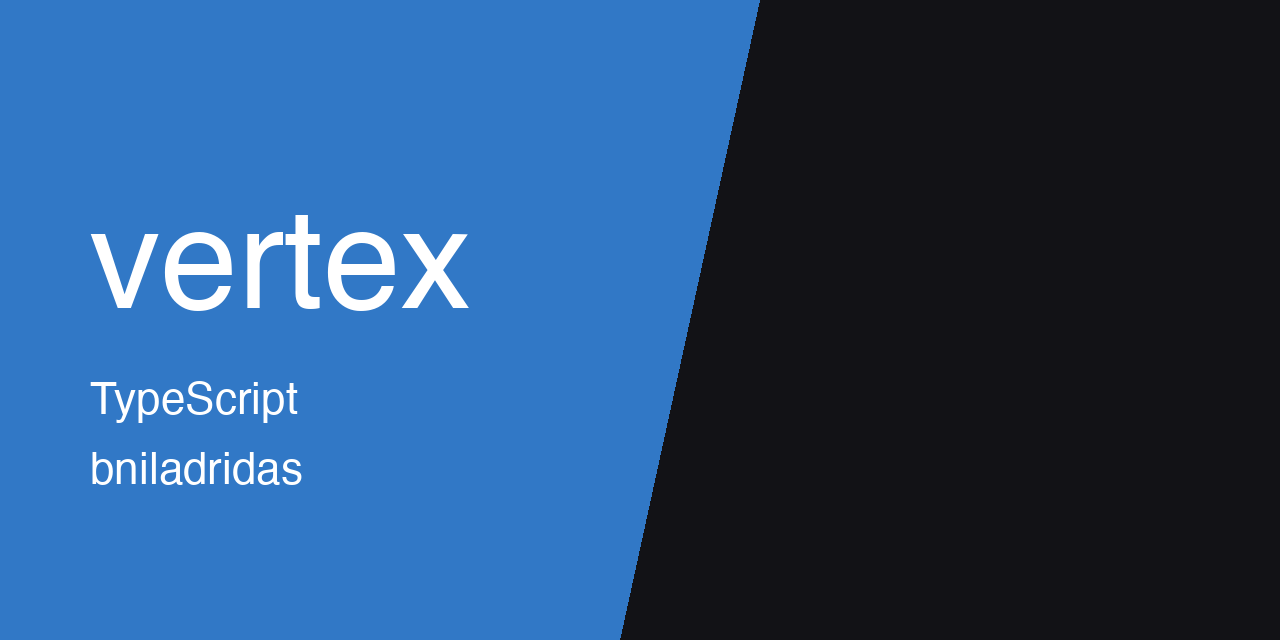
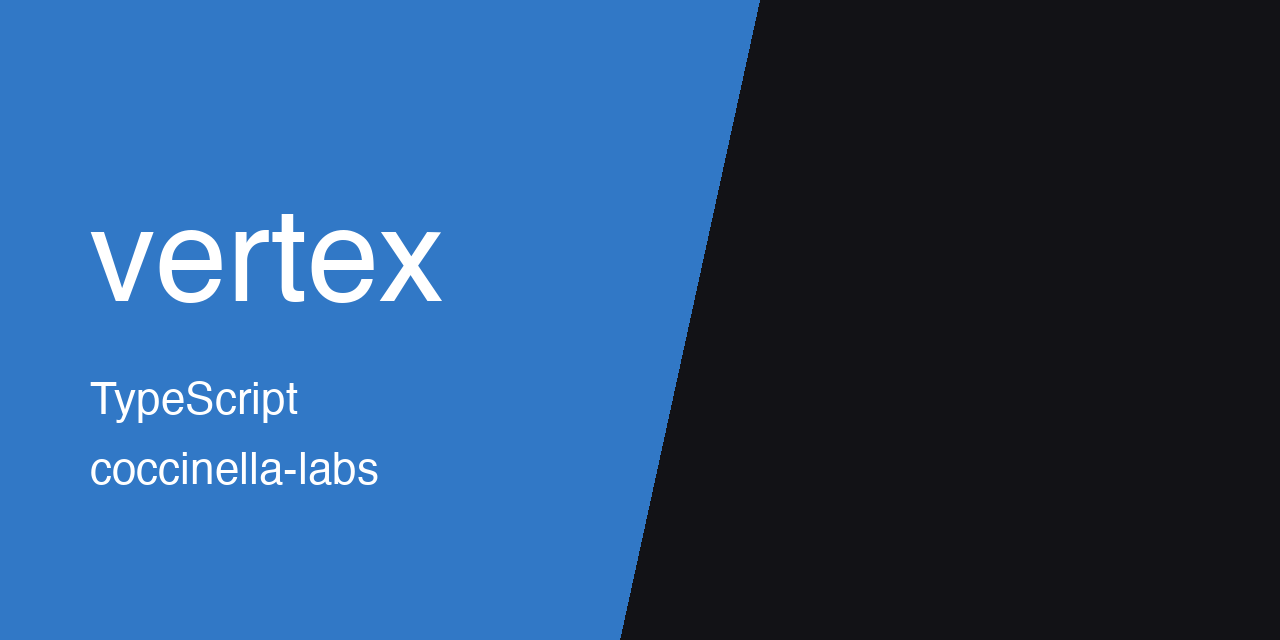
[docs] move thumbnail to coccinella-labs

Changed region(s): [[0.0938, 0.3125, 0.375, 0.5], [0.0625, 0.6875, 0.3125, 0.7812]]

diff --git a/README.md b/README.md
@@ -1,3 +1,7 @@
+<p align="center">
+  <img src="https://raw.githubusercontent.com/Coccinella-Labs/vertex/main/.github/assets/thumbnail.png" alt="vertex" width="100%">
+</p>
+
 <img src=".github/assets/thumbnail.png" alt="vertex" width="100%">
 
 # vertex
